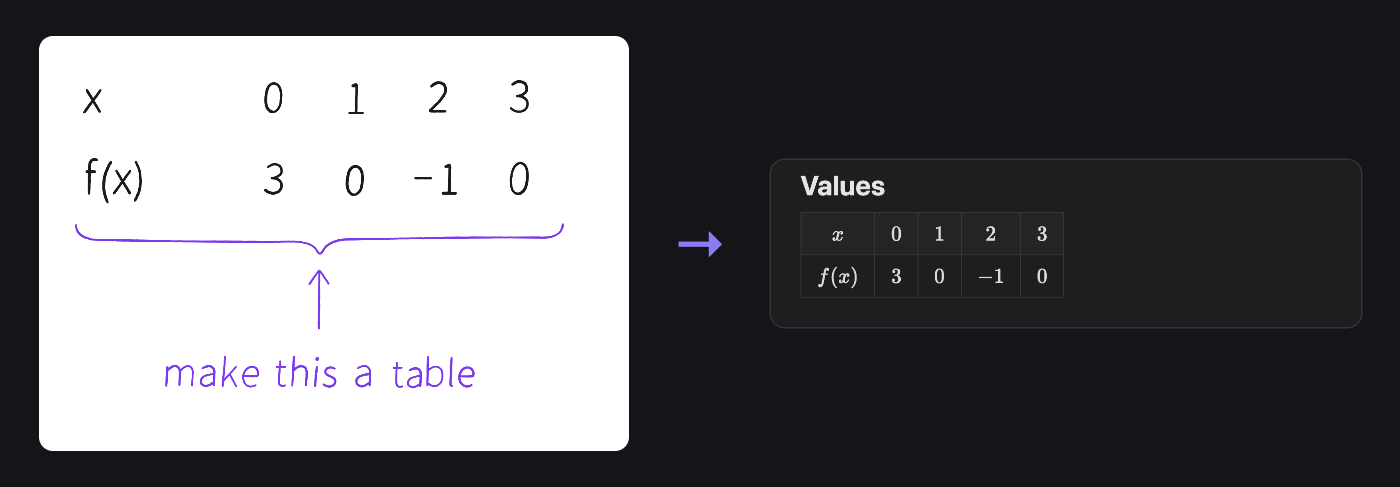
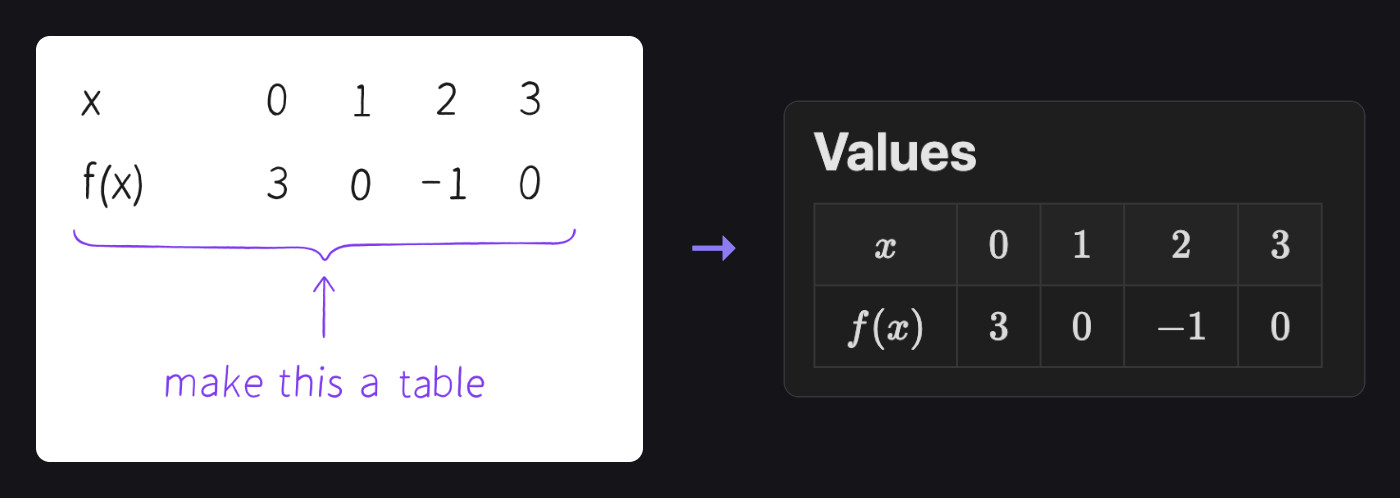
Show the two pens and both uses of the AI pen in the README
The check's warning was too small to read beside the page, so it now sits
under it. The AI pen section shows where the two pens are and what tells
them apart -- the AI transcribes the Pen and reads the AI pen as written to
it -- and demonstrates both uses: an instruction about the page, and a
question on the side answered in a callout (a real reply from Claude).

diff --git a/README.md b/README.md
@@ -26,14 +26,29 @@ command *Handwrite at the cursor*.
 
 ### Mistakes are flagged, never fixed
 
+What you wrote stays as you wrote it; a warning under it says what looks wrong
+and why.
+
 ![(a + b)² = a² + b², transcribed as written, with a warning that the cross term 2ab is missing](https://raw.githubusercontent.com/StanH123h/obsidian-inkdown/main/docs/images/check.png)
 
-### The AI pen talks to the AI
+### Two pens: one for your content, one for talking to the AI
 
-Write in violet to ask for a table, say what to skip, or ask a question. It is
-never transcribed.
+![The pad's tool bar has two pens: the Pen, for content the AI transcribes, and the AI pen, for instructions and questions written to the AI, never transcribed](https://raw.githubusercontent.com/StanH123h/obsidian-inkdown/main/docs/images/two-pens.png)
 
-![A row of values with "make this a table" written under it in violet, and the Markdown table it became](https://raw.githubusercontent.com/StanH123h/obsidian-inkdown/main/docs/images/ai-pen.png)
+What you write with the **Pen** is your content, and the AI transcribes it.
+What you write with the **AI pen** (violet) the AI knows is written to it, so
+you can annotate the page freely and none of it is mistaken for your content.
+There are two ways to use it.
+
+**Tell it what to do with what you wrote**, such as "make this a table",
+"skip this" or "this symbol is ξ":
+
+![Values with "make this a table" written under them with the AI pen, and the Markdown table they became](https://raw.githubusercontent.com/StanH123h/obsidian-inkdown/main/docs/images/ai-pen.png)
+
+**Ask a question on the side**: write "btw, ..." and the answer comes back in
+a callout under the result.
+
+![f(x) = (x − 2)² − 1, with "btw, why does this mean the minimum is −1?" written with the AI pen; the note gets the formula, and the answer in a callout under it](https://raw.githubusercontent.com/StanH123h/obsidian-inkdown/main/docs/images/question.png)
 
 ## Setting up
 
